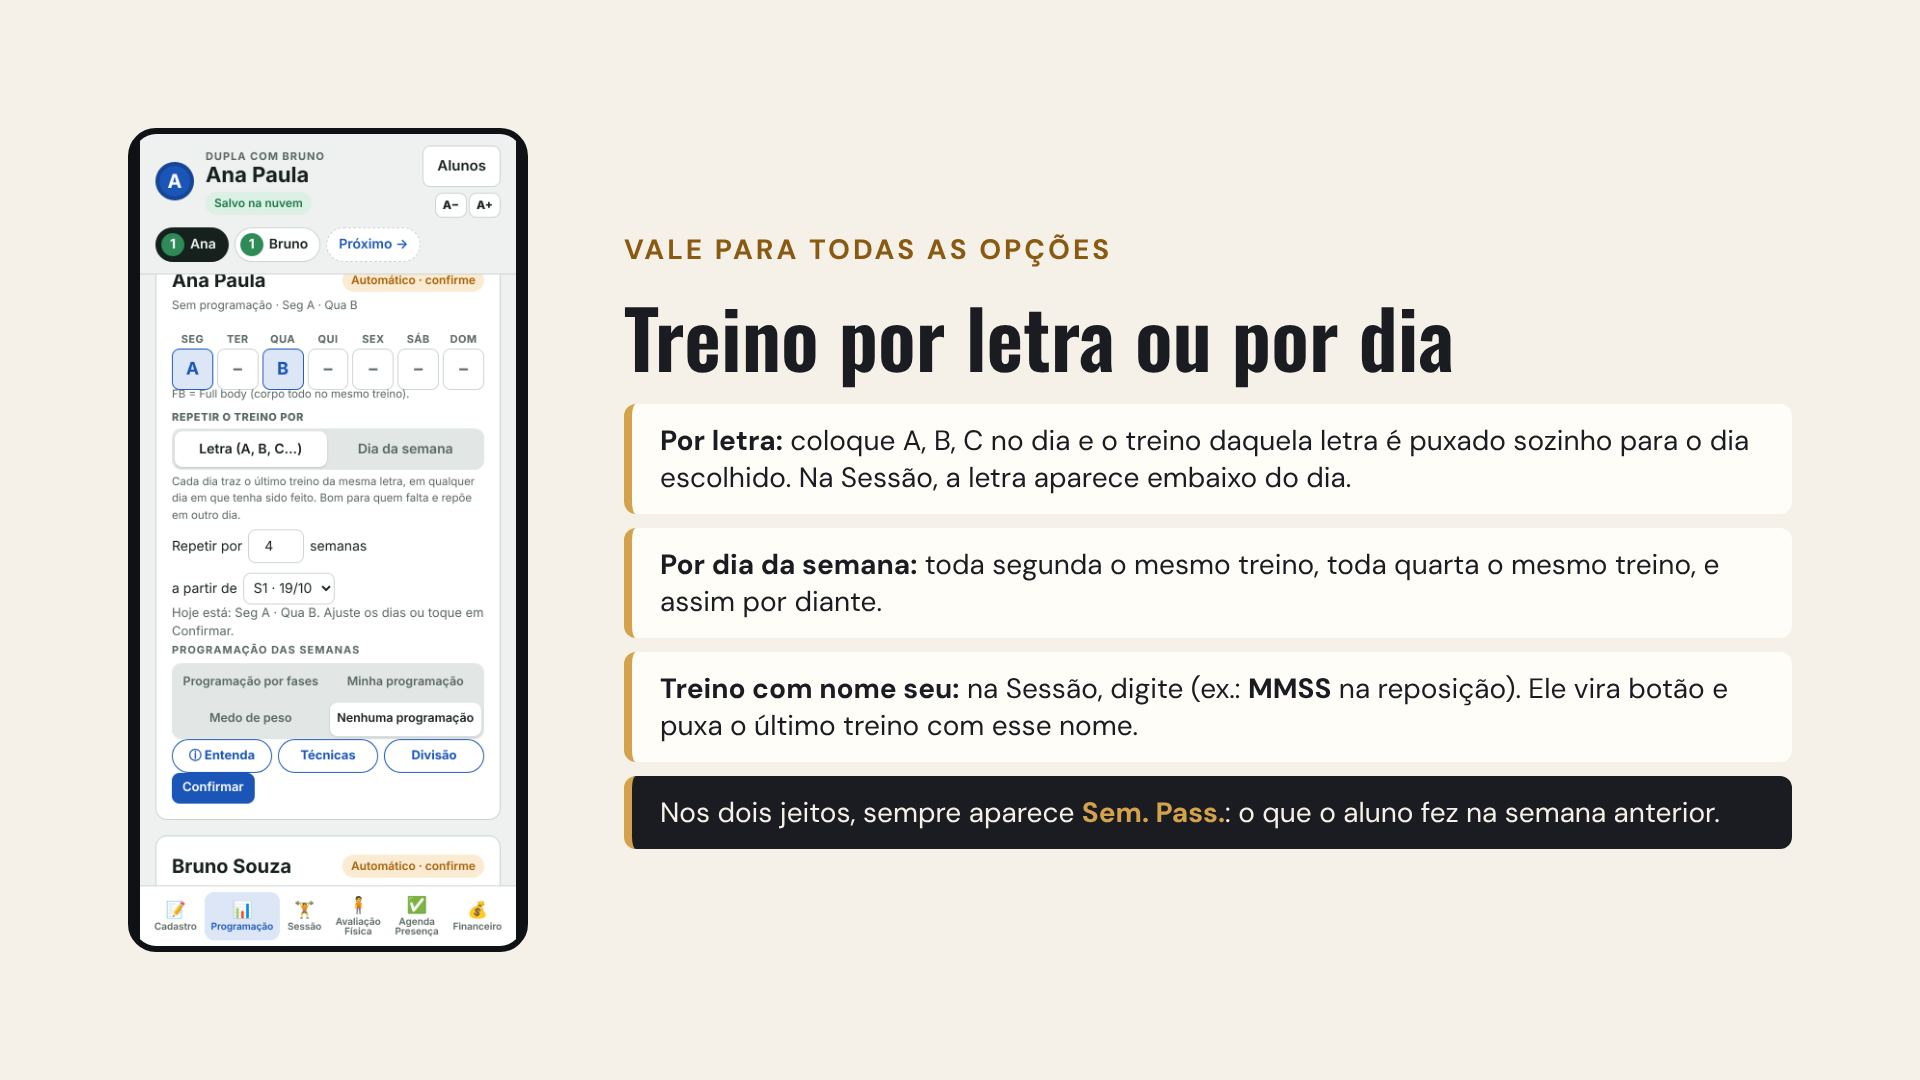
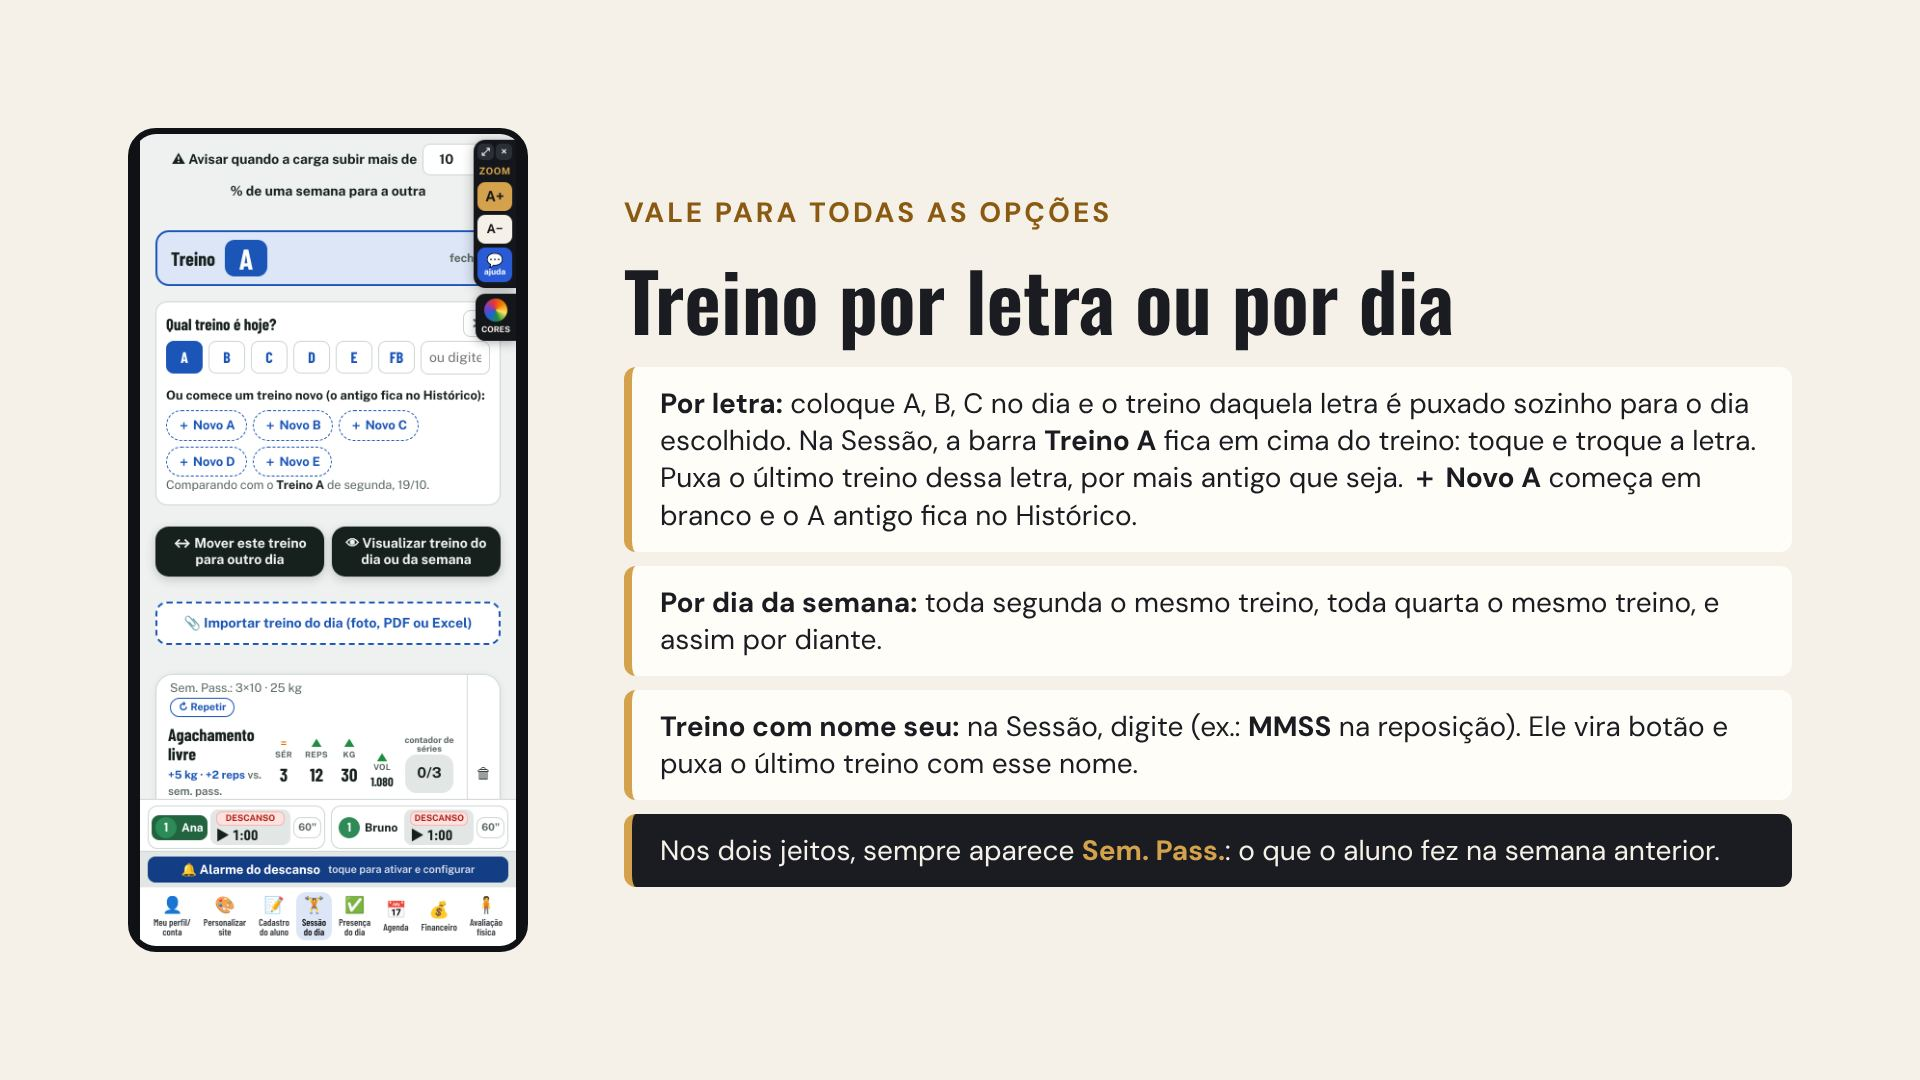
Sessão: barra Treino A/B/C em cima do treino, puxa o último da letra; Novo treino A em branco mantendo o histórico; slide
Claude-Session: https://claude.ai/code/session_01ExiWmKxJX9TgZX8HbSZjPY

diff --git a/index.html b/index.html
@@ -1,4 +1,4 @@
-<!doctype html><html><head><meta charset=utf8><link rel="manifest" href="manifest.webmanifest"><meta name="theme-color" content="#0f1115"><link rel="icon" href="icon-192.png"><link rel="apple-touch-icon" href="icon-192.png"><meta name="apple-mobile-web-app-capable" content="yes"><meta name="mobile-web-app-capable" content="yes"><meta name="apple-mobile-web-app-title" content="Rotina do Personal"><meta name=viewport content="width=device-width,initial-scale=1,viewport-fit=cover"><style>:root{color-scheme:light;box-sizing:border-box;padding-top:env(safe-area-inset-top,0px);padding-bottom:env(safe-area-inset-bottom,0px)}html{scroll-padding-top:env(safe-area-inset-top,0px)}body{margin:0;padding:0;font:14px -apple-system,BlinkMacSystemFont,sans-serif;background:#faf9f5;color:#141413}img{max-width:100%}[hidden]:not([hidden=until-found i]){display:none!important}</style><script>window.RP_BUILD="1793402334";
+<!doctype html><html><head><meta charset=utf8><link rel="manifest" href="manifest.webmanifest"><meta name="theme-color" content="#0f1115"><link rel="icon" href="icon-192.png"><link rel="apple-touch-icon" href="icon-192.png"><meta name="apple-mobile-web-app-capable" content="yes"><meta name="mobile-web-app-capable" content="yes"><meta name="apple-mobile-web-app-title" content="Rotina do Personal"><meta name=viewport content="width=device-width,initial-scale=1,viewport-fit=cover"><style>:root{color-scheme:light;box-sizing:border-box;padding-top:env(safe-area-inset-top,0px);padding-bottom:env(safe-area-inset-bottom,0px)}html{scroll-padding-top:env(safe-area-inset-top,0px)}body{margin:0;padding:0;font:14px -apple-system,BlinkMacSystemFont,sans-serif;background:#faf9f5;color:#141413}img{max-width:100%}[hidden]:not([hidden=until-found i]){display:none!important}</style><script>window.RP_BUILD="1793403800";
 (function(){ var K="rp_upd_try";
   var T0=Date.now(); function chk(){ try{ fetch(location.pathname+"?v="+Date.now(),{cache:"no-store"}).then(function(r){ return r.text(); }).then(function(t){ var m=t.match(/window\.RP_BUILD="(\d+)"/); if(!m||m[1]===window.RP_BUILD) return;
       var tried=sessionStorage.getItem(K); if(Date.now()-T0<15000&&tried!==m[1]){ sessionStorage.setItem(K,m[1]); go(m[1]); return; } showUpd(m[1]); }).catch(function(){}); }catch(e){} }
@@ -447,6 +447,14 @@ body.mono .alarm{background:var(--accent);animation-name:alarmblinkc}@keyframes 
 .impg select{display:inline-block;width:auto;padding:3px 6px;font-size:14px}
 .impmode{display:grid;gap:4px;font-size:14px;margin-bottom:6px}
 .impgo{width:100%;margin-top:8px}
+.ltrbar{display:flex;align-items:center;gap:10px;width:100%;margin:10px 0 4px;border:2px solid var(--accent);background:var(--surface);color:var(--fg);border-radius:14px;padding:8px 14px;cursor:pointer;text-align:left}
+.ltrbar span{font-family:var(--f-display);font-size:20px;font-weight:700}
+.ltrbar b{font-family:var(--f-display);font-size:30px;line-height:1;color:#fff;background:var(--accent);border-radius:10px;min-width:44px;padding:4px 10px;text-align:center}
+.ltrbar small{margin-left:auto;color:var(--muted);font-weight:700;font-size:12px}
+.ltrbar.on{background:var(--accent-soft)}
+.ltrnewrow{display:grid;gap:6px;margin-top:8px;font-size:13px;font-weight:700}
+.ltrnewrow>div{display:flex;flex-wrap:wrap;gap:6px}
+.ltrnewrow button{border:1.5px dashed var(--accent);background:var(--surface);color:var(--accent);font-weight:800;border-radius:999px;padding:5px 11px;cursor:pointer}
 .cvact.cvact6{grid-auto-flow:row;grid-template-columns:repeat(3,minmax(0,1fr))}
 .cvact.cvact6 button:nth-child(3){border-right:0}
 .cvact.cvact6 button:nth-child(n+4){border-top:1px solid var(--line)}
@@ -3519,7 +3527,7 @@ function totWeek(wid,sid){
   o.wod=o.wod||0; o.eq=o.mod+2*o.int+o.wod; return o;
 }
 function prevWeekId(wid){ const i=S.weeks.findIndex(w=>w.id===wid); return i>0? S.weeks[i-1].id : null; }
-function cloneDay(d,keepLoads,full){ const c=clean(normDay(d)); delete c.presOk; delete c.ini; delete c.fim; delete c.done; delete c.ltr; c.cp=1; c.rows.forEach(r=>{ r.id=nid();
+function cloneDay(d,keepLoads,full){ const c=clean(normDay(d)); delete c.ltrNew; delete c.presOk; delete c.ini; delete c.fim; delete c.done; delete c.ltr; c.cp=1; c.rows.forEach(r=>{ r.id=nid();
     if(!full){ r.n1=""; r.n2=""; const im=r.a&&r.a.isoM; r.a=sub(); r.b=sub(); if(im) r.a.isoM=im; delete r.sub; delete r.cp; return; }
     if(r.n1&&r.n1.trim()) r.cp=1; if(!keepLoads){ r.a.c=""; r.b.c=""; } }); c.cardio={t:"",z:"",tipo:"",pse:"",v:""}; c.wod={tipo:"",t:"",desc:""}; return c; }
 /* Cardio não vem copiado: aparece em cima como "Sem. Pass." com o botão Repetir */
@@ -4068,6 +4076,7 @@ function ltrPickHTML(m,d){ const L=ltrOf(m.id,S.week,S.day,d); const r=L? prevRe
   const blk= bi&&!bi.before? (bi.over? `<p class="blk-over">⚠ As ${bi.N} semanas deste treino terminaram. Monte o treino novo e, na Programação, escolha em <b>a partir de</b> a semana em que ele começa.</p>` : `<span class="blk-n">Semana ${bi.n} de ${bi.N}${w?` · ${planTxt(w)}`:""}</span>`) : "";
   return `<div class="ltrbox"><span class="ltr-q">Qual treino é hoje?</span><button class="ltrx" data-ltrx aria-label="Fechar">✕</button>
     <div class="phmini ltrpick" role="group" aria-label="Treino de ${esc(first(m.name))}">${LTR_ALL.map(x=>`<button style="--pc:var(--accent)" data-setltr="${x}" ${x==="FB"?'title="Full body"':""} aria-pressed="${x===L}">${x}</button>`).join("")}${ltrMine().map(x=>`<span class="ltrmy"><button style="--pc:var(--accent)" data-setltr="${esc(x)}" aria-pressed="${x===L}">${esc(x)}</button><button class="ltrdel" data-ltrdel="${esc(x)}" aria-label="Tirar ${esc(x)} da lista">×</button></span>`).join("")}<input class="inp ltr-txt" data-ltrtxt id="lt-${m.id}" value="${custom&&!ltrMine().includes(L)?esc(L):""}" placeholder="ou digite: ex. MMSS"></div>
+    <div class="ltrnewrow"><span>Ou comece um treino novo (o antigo fica no Histórico):</span><div>${["A","B","C","D","E"].map(x=>`<button data-ltrnew="${x}">＋ Novo ${x}</button>`).join("")}</div></div>
     <p class="ltrnote">${blk}${L? (r? `Comparando com o <b>${esc(tname(L))}</b> de ${DAY_N[r.day].toLowerCase()}, ${ddmm(r.date)}.` : `Primeiro <b>${esc(tname(L))}</b> registrado: ele vira a referência do próximo.`) : `Escolha o treino para comparar com o último igual. Sem escolher, compara com o mesmo dia da semana passada.`} ${src}</p></div>`; }
 function prevDayTot(sid){ const r=prevRef(sid); return r? totDay(r.d) : null; }
 function deltaTxt(a,b){ if(!b) return ""; const p=Math.round((a-b)/b*100); return `${p>0?"+":""}${p}%`; }
@@ -4882,10 +4891,11 @@ function colHTML(m,w,ms){
     ${LTR_UNDO[w.id+"|"+m.id+"|"+S.day]?`<div class="ltrundo"><span>Os exercícios foram trocados pela nova letra.</span><button class="btn small" data-ltrundo>↩ Desfazer e voltar os anteriores</button><button class="icon-btn" data-ltrundox aria-label="Ok">✓</button></div>`:""}
     ${sugOpen===m.id&&!SUG_ROW? sugHTML(m,d) : ""}
     ${m===(ms.includes(st)?st:ms[0])&&sesMode==="lancar"? boxW("semana","📅 Semana e dia",SES_WK.replace("%%CTL%%","")) : ""}
-    ${((!ltrOf(m.id,w.id,S.day,d)&&!LTR_HIDE[m.id+"|"+S.week+"|"+S.day])||ltrEdit===m.id)? ltrPickHTML(m,d) : ""}
     ${repAskHTML(m,d)}<div id="alr-${m.id}">${alertsHTML(m,d)}</div>
     <div class="sesctlw">${CTLB}</div>
     ${ctlOv&&ctlOv.sid===m.id? ctlOvHTML(m,T) : ""}
+    ${sesMode==="lancar"? (()=>{ const L=ltrOf(m.id,w.id,S.day,d); return `<button class="ltrbar ${ltrEdit===m.id?"on":""}" data-ltredit><span>Treino</span><b>${L? esc(LTR_ALL.includes(L)? L : L) : "?"}</b><small>${ltrEdit===m.id? "fechar" : L? (d&&d.ltrNew? "treino novo · toque para trocar" : "toque para trocar") : "toque para escolher A, B, C…"}</small></button>`; })() : ""}
+    ${((!ltrOf(m.id,w.id,S.day,d)&&!LTR_HIDE[m.id+"|"+S.week+"|"+S.day])||ltrEdit===m.id)? ltrPickHTML(m,d) : ""}
     <div class="mvvw"><button class="btn mvbig ${mvOpen===m.id?"on":""}" data-mvopen>↔ Mover este treino para outro dia</button><button class="btn vwbig" data-vwopen="${m.id}">👁 Visualizar treino do dia ou da semana</button></div>
     ${mvOpen===m.id? mvHTML(m,w,others) : ""}
     ${m===st? impBtn("sessao","Importar treino do dia (foto, PDF ou Excel)") : ""}
@@ -5233,8 +5243,8 @@ document.addEventListener("change",async e=>{ const t=e.target; if(!t.closest||!
     IMP.busy=""; impRender(); } });
 document.addEventListener("input",e=>{ const t=e.target; if(!t.matches||!t.matches("#impPop [data-imptxt]")) return; IMP.lines=t.value.split(/\n/).map(x=>x.trim()).filter(Boolean); IMP.off=new Set(); clearTimeout(IMP._t); IMP._t=setTimeout(impPrev,300); });
 /* Aviso de atualização: aparece uma vez a cada versão nova, com o resumo do que mudou */
-const APP_VER="2026-10-30e";
-const APP_NOVO=["<b>📎 Importar de foto, print, PDF ou Excel</b>: o site lê e lança sozinho o treino do dia, a ficha (Treino A, B, C), os alunos, a avaliação física e os pagamentos. Você confere antes de lançar.","<b>Controle da sessão</b> mais compacto: MMSS, MMII e Core lado a lado, com a tonelagem embaixo do Core.","<b>Métodos avançados:</b> pergunta antes de usar. Cada método monta as linhas no cartão: Dropset com 2 drops de −20% de carga, Rest entre os blocos no Cluster e no Rest-pause, e <b>+ série</b> para lançar à mão.",
+const APP_VER="2026-10-30f";
+const APP_NOVO=["<b>Treino A, B, C…</b> de volta na Sessão, numa barra comprida em cima do treino. Tocou numa letra, puxa o último treino dela. <b>＋ Novo A</b> começa em branco e o antigo fica no Histórico.","<b>📎 Importar de foto, print, PDF ou Excel</b>: o site lê e lança sozinho o treino do dia, a ficha (Treino A, B, C), os alunos, a avaliação física e os pagamentos. Você confere antes de lançar.","<b>Controle da sessão</b> mais compacto: MMSS, MMII e Core lado a lado, com a tonelagem embaixo do Core.","<b>Métodos avançados:</b> pergunta antes de usar. Cada método monta as linhas no cartão: Dropset com 2 drops de −20% de carga, Rest entre os blocos no Cluster e no Rest-pause, e <b>+ série</b> para lançar à mão.",
  "<b>Unilateral</b> aparece 12/12 ou 30\"/30\". <b>Tempo de execução</b> (depois de Isometria) abre TEMPO e ZONA e conta no cardio.",
  "<b>Metas e controle da sessão</b> acima de Mover e Visualizar, já com os gráficos e o ⚙ Ajustar metas.",
  "<b>Metas de cardio da semana</b> no Cardio. Tabata sempre abre em 8 × 20\" com 10\" de descanso.",
@@ -5289,7 +5299,7 @@ document.addEventListener("click",e=>{ const b=e.target.closest&&e.target.closes
   const rEl=b.closest("[data-row]"), cEl=b.closest("[data-col]"); if(!rEl||!cEl) return; const d=dayOf(S.week,cEl.dataset.col,S.day,true); const r=d.rows.find(x=>x.id===rEl.dataset.row); if(!r) return;
   r.n1=b.dataset.cvpick; const df=phaseDefaults(stById(cEl.dataset.col)); if(r.a.s==="") r.a.s=df.s; if(r.a.r==="") r.a.r=df.r; CV_REG=null; save(); renderSessao(); try{ markStart(cEl.dataset.col); }catch(_){} });
 const cvMode=()=>"card";
-function cvHTML(m,d,others){ const ref=prevRef(m.id); const pr=ref&&ref.d? ref.d.rows : [];
+function cvHTML(m,d,others){ const ref= d&&d.ltrNew? null : prevRef(m.id); const pr=ref&&ref.d? ref.d.rows : [];
   const rows=(d&&d.rows)||[]; const nm=others.map(o=>first(o.name)).join(" e ");
   const cmp=(cur,old)=>{ const a=num(cur), b=num(old); if(!a||!b) return '<i class="cvsp">&nbsp;</i>'; return a>b?'<i class="cvup">▲</i>':a<b?'<i class="cvdn">▼</i>':'<i class="cveq">=</i>'; };
   const fmt=v=>String(Math.round(v*10)/10).replace(".",",");
@@ -5541,6 +5551,8 @@ function sesClick(e){
   if(b.hasAttribute("data-ltrx")){ LTR_HIDE[sid+"|"+S.week+"|"+S.day]=1; ltrEdit=null; renderSessao(); return; }
   if(b.hasAttribute("data-ltredit")){ ltrEdit= ltrEdit===sid? null : sid; renderSessao(); return; }
   if(b.dataset.ltrdel){ S.brand=Object.assign({},S.brand||{},{ltrMine:ltrMine().filter(x=>x!==b.dataset.ltrdel)}); save(); renderSessao(); toast("Tirado da lista. Os treinos já feitos continuam salvos."); return; }
+  if(b.dataset.ltrnew){ ltrEdit=null; const X=b.dataset.ltrnew; const W=S.days[w.id]=S.days[w.id]||{}, P=W[sid]=W[sid]||{}; const d0=P[S.day]; if(d0&&dayHasData(d0)) LTR_UNDO[w.id+"|"+sid+"|"+S.day]=JSON.parse(JSON.stringify(d0));
+    const c=emptyDay(); c.ltr=X; c.ltrNew=1; P[S.day]=c; save(); renderSessao(); toast(`${first(m.name)}: Treino ${X} novo, em branco. O Treino ${X} antigo continua no Histórico.`); return; }
   if(b.dataset.setltr){ ltrEdit=null; const d=dayOf(w.id,sid,S.day,true); const cur=ltrOf(sid,w.id,S.day,d); if(cur===b.dataset.setltr){ renderSessao(); return; } d.ltr= b.dataset.setltr; if(d.ltr===progLtr(sid,S.day)&&!dayHasData(d)) delete d.ltr; const r=fillByLtr(sid,w.id,S.day,true); { const u=LTR_UNDO[w.id+"|"+sid+"|"+S.day]; if(u&&cur) u.ltr=cur; } save(); renderSessao(); toast(r? `${first(m.name)}: Treino ${b.dataset.setltr} · exercícios de ${ddmm(r.date)} carregados` : `${first(m.name)}: Treino ${b.dataset.setltr} · exercícios zerados (primeiro Treino ${b.dataset.setltr})`); return; }
   if(b.dataset.setph!=null){ if(+b.dataset.setph===m.phase) return; m.phase=+b.dataset.setph; save(); renderAll(); toast(`${first(m.name)}: ${phT(m)} · ${phaseOf(m).n}`); return; }
   if(b.hasAttribute("data-done")){ const d=dayOf(w.id,sid,S.day); if(!d) return; d.done=1; if(d.ini&&sesDateOf()===isoD(new Date())) d.fim=hmNow(); delete REST[sid]; save(); renderSessao(); renderTurnbar(); toast(`Treino de ${first(m.name)} concluído 💪 Envie o relatório quando quiser.`); return; }
